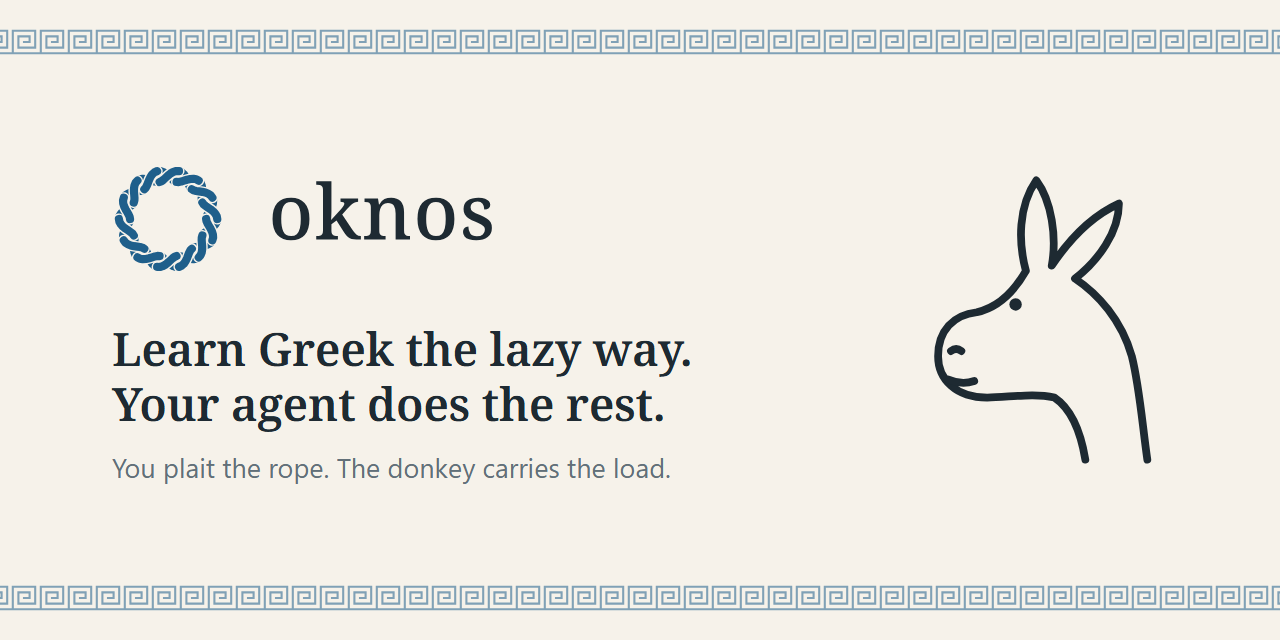
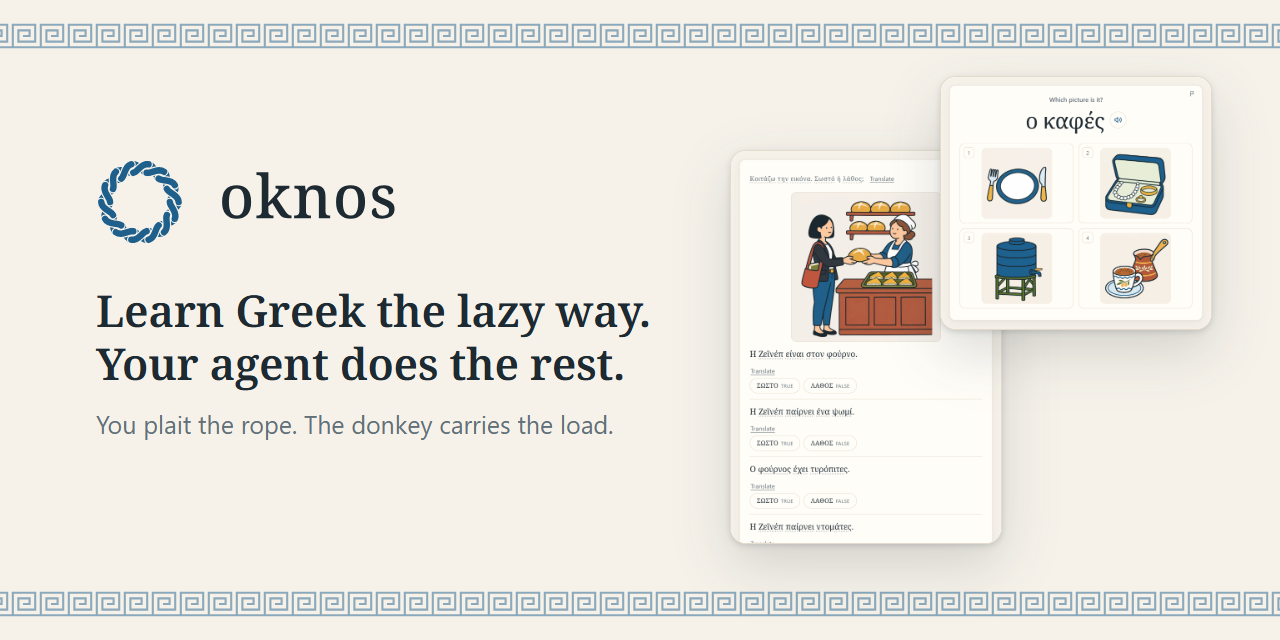
README: a new GitHub face
A hero from the app, a gallery of six screens in light and dark, a films
section with a short preview of film 1, the setup sentence near the top, and
current facts: pictures, the shipped voice, podcast lessons, the films, the
phone. The old screenshots go; the social preview matches the hero.

diff --git a/README.md b/README.md
@@ -8,34 +8,69 @@
 <h3 align="center">Learn Greek the lazy way. Your agent does the rest.</h3>
 <p align="center"><em>You plait the rope. The donkey carries the load.</em></p>
 
-**Oknos** is a Greek learning app for people who live in Greece and need a Greek certificate: the **A2 + history** exam for long-term residence or **Ελληνομάθεια B1**. It is for people who have tried to study before and stopped. It runs only on your own computer, and your coding agent (Claude Code, Codex or similar) installs it, runs it and coaches you.
+<p align="center">
+  <picture>
+    <source media="(prefers-color-scheme: dark)" srcset="docs/img/hero-dark.webp">
+    <img src="docs/img/hero-light.webp" alt="The Oknos home screen: good morning in Greek, the new words waiting with their pictures, today's session and the current lesson. Beside it a new word with its picture, and a painted scene from the book with true-or-false questions in Greek." width="100%">
+  </picture>
+</p>
 
-> **Türkçe:** Bu sayfayı Türkçe okumak için ajanına "README'yi Türkçeye çevir" demen yeterli. Uygulamanın kendisi Türkçe ve İngilizce.
+**Oknos** is a Greek learning app for people who live in Greece and need a Greek certificate: the **A2 + history** exam for long-term residence, or **Ελληνομάθεια B1**. It is made for people who have tried to study before and stopped. It runs only on your own computer, and your coding agent (Claude Code, Codex or similar) installs it, runs it and coaches you.
+
+> **Türkçe:** Uygulama Türkçe ve İngilizce. Bu sayfayı Türkçe okumak için ajanına "README'yi Türkçeye çevir" demen yeterli.
+
+## Get started
+
+Install an agent such as the Claude desktop app (Claude Code) or Codex, sign in, and say:
+
+> **"Download `https://github.com/<owner>/oknos` and set it up for me."**
+
+The agent installs what is needed, starts the app and puts an **Oknos** shortcut on your desktop. After that, double-click **Oknos** whenever you want to study; you don't need the agent open for that. (Already have the code? Open the folder in your agent and say "set this up for me". The agent's steps are in [`.agents/skills/setup/SKILL.md`](.agents/skills/setup/SKILL.md).)
+
+## A look inside
 
 <table>
   <tr>
-    <td width="50%"><img src="docs/img/home.png" alt="The home screen: one button for today's session, where you are in the course, and the coach's note"></td>
-    <td width="50%"><img src="docs/img/reader.png" alt="A chapter's dialogue; tapping a Greek word shows its meaning"></td>
+    <td width="50%" valign="top"><picture><source media="(prefers-color-scheme: dark)" srcset="docs/img/app-reader-dark.webp"><img src="docs/img/app-reader-light.webp" alt="A chapter of the book: a painted scene at the bakery, then the dialogue in Greek, each line with a play button"></picture></td>
+    <td width="50%" valign="top"><picture><source media="(prefers-color-scheme: dark)" srcset="docs/img/app-picture-dark.webp"><img src="docs/img/app-picture-light.webp" alt="A practice card: the Greek word ο καφές and four pictures to choose from"></picture></td>
   </tr>
   <tr>
-    <td align="center"><sub>One button a day: the session is sized to your time</sub></td>
-    <td align="center"><sub>Read first, then practise. Tap any word for its meaning</sub></td>
+    <td align="center"><b>Read first.</b> <sub>Each lesson starts with a short chapter: a story, its dialogue spoken aloud, grammar explained in Turkish or English. Tap any Greek word for its meaning.</sub></td>
+    <td align="center"><b>Then practise.</b> <sub>A session sized to your time, with a natural voice, and pictures for the words. Reviews come back just before you would forget.</sub></td>
   </tr>
   <tr>
-    <td><img src="docs/img/book.png" alt="The book: twelve chapters, each read before its lesson's practice"></td>
-    <td><img src="docs/img/practise.png" alt="Choosing your own practice: words, verbs, reading, listening, writing, speaking"></td>
+    <td valign="top"><picture><source media="(prefers-color-scheme: dark)" srcset="docs/img/app-scene-dark.webp"><img src="docs/img/app-scene-light.webp" alt="An exam-format task: look at the picture of the bakery and say whether each Greek sentence is true or false"></picture></td>
+    <td valign="top"><picture><source media="(prefers-color-scheme: dark)" srcset="docs/img/app-exam-dark.webp"><img src="docs/img/app-exam-light.webp" alt="The exam screen: would you pass B1 today? Reading and listening too close to call, writing and speaking not enough evidence yet"></picture></td>
   </tr>
   <tr>
-    <td align="center"><sub>A book of short chapters, from the alphabet to B1</sub></td>
-    <td align="center"><sub>Or choose: words, verbs, reading, listening, writing, speaking</sub></td>
+    <td align="center"><b>Exam formats from day one.</b> <sub>Look at the picture: true or false? Gap fills, matching, listening, writing and speaking, as in the real exams.</sub></td>
+    <td align="center"><b>Would you pass today?</b> <sub>An honest answer per skill, against each exam's real pass rule. With too little evidence, it says so.</sub></td>
+  </tr>
+  <tr>
+    <td valign="top"><picture><source media="(prefers-color-scheme: dark)" srcset="docs/img/app-book-dark.webp"><img src="docs/img/app-book-light.webp" alt="The book: twelve lessons from the first letter to B1, the current one with its progress and its words with pictures"></picture></td>
+    <td valign="top"><picture><source media="(prefers-color-scheme: dark)" srcset="docs/img/app-films-dark.webp"><img src="docs/img/app-films-light.webp" alt="The films of Oknos: two short painted films, Oknos and the donkey, and The dream"></picture></td>
+  </tr>
+  <tr>
+    <td align="center"><b>A book of twelve lessons.</b> <sub>From the alphabet to B1, following Zeynep from Izmir as she settles in Thessaloniki.</sub></td>
+    <td align="center"><b>Films about the name.</b> <sub>Two short painted films of the myth, with Greek captions to read along.</sub></td>
   </tr>
 </table>
+
+Screens from a demo learner with the open content only. Light or dark follows your system.
 
 ## Why "Oknos"?
 
 <img src="docs/brand/donkey-working-light.svg" alt="" width="64" align="right">
 
 In a painting at Delphi described by Pausanias, **Oknos** (Ὄκνος, "sloth" or "hesitation") sits plaiting a rope while a donkey eats it as fast as he plaits it. That is what happens to the Greek you learn and never review. In this app the donkey is on your side: your agent carries the load, so the rope gets longer. More in [docs/brand](docs/brand/README.md).
+
+### The films
+
+<p align="center">
+  <img src="docs/img/film-preview.webp" alt="A preview of the film Oknos and the donkey: painted shots of Oknos plaiting his rope at Delphi while a donkey eats it, with Greek captions and English lines under them" width="560">
+</p>
+
+Two short painted films (about 45 seconds each) tell the story: **Oknos and the donkey**, from Pausanias, and **The dream**, where Oknos dozes under an olive tree. The captions are simple modern Greek with an English or Turkish line under them, so they are reading practice too, and they can play with a Greek voice and a quiet background of wind, cicadas and goat bells. The first film welcomes you the first time you open the app; both are on the films page, reached from the home screen and the Book. How they are made: [docs/brand/animations](docs/brand/animations/README.md).
 
 ## How it works
 
@@ -46,7 +81,7 @@ In a painting at Delphi described by Pausanias, **Oknos** (Ὄκνος, "sloth" 
 
 - The app runs at `http://127.0.0.1:8642`, only on your computer. Your progress, mistakes and writing stay in a local folder. There are no accounts and nothing is uploaded.
 - You study in the app every day. The agent is not needed for that.
-- When you open your agent, it reads how you have been doing and acts as your coach. It makes new exercises around your weak spots and from your own life, marks your writing against the exam's criteria, and turns what you did in class, or a letter you received, into practice. If you agree, it can also prepare tomorrow's exercises every evening by itself.
+- When you open your agent, it reads how you have been doing and acts as your coach. It makes new exercises around your weak spots and from your own life, marks your writing against the exam's criteria, and turns what you did in class, or a letter you received, into practice. If you agree, it also prepares tomorrow's exercises every evening by itself.
 
 ## A day with Oknos
 
@@ -62,9 +97,12 @@ In a painting at Delphi described by Pausanias, **Oknos** (Ὄκνος, "sloth" 
   <img src="docs/img/what-you-learn-light.svg" alt="Twelve stages of an open course, from reading Greek through A1 and A2 to B1, aimed at the A2 + history and Ελληνομάθεια B1 exams. You can import your own coursebook privately.">
 </picture>
 
-- **An open course in 12 stages**, from the alphabet to B1. Each stage starts with a short chapter to read (a dialogue, grammar explained in Turkish or English, the words), and its practice opens after it.
-- **Exam practice in the real formats**, a timed **mock exam**, and an honest answer to **"would you pass today?"** for each part of each exam, against its real pass rule. Where there is too little evidence, it says so instead of guessing.
+- **An open course in 12 lessons**, from the alphabet to B1. Each starts with a chapter to read, and its practice opens after it. A new word is shown and explained before it is ever tested.
+- **Pictures and a voice.** Painted scenes in every chapter, and pictures for words: over a hundred in the open course and close to a thousand in all, drawn for Oknos. Every Greek sentence of the open course comes with a natural recorded voice, so it sounds right from the first day with no setup. With your own key for a voice service (Azure, Google or OpenAI) the agent can voice everything else too.
+- **Podcast lessons** to listen to on the go: your agent writes an episode for a chapter, in Greek with explanations in Turkish or English, and voices it with your voice service.
+- **Exam practice in the real formats**, a timed **mock exam**, and an honest answer to **"would you pass today?"** for each part of each exam.
 - **Your own material**, if you have it. Import a coursebook you own, a word list or handouts, and they become your course. They stay private, on your computer.
+- **On your phone too**, if you want: through your own private network (Tailscale), never the open internet. See [docs/HOSTING.md](docs/HOSTING.md).
 
 ## Say it to your agent
 
@@ -78,25 +116,16 @@ Open your agent in the Oknos folder and say:
 | **"mark my writing"** | Corrections and an exam score, shown in the app next to what you wrote. |
 | **"make me a plan"** | A week-by-week plan to a real exam date, which says plainly whether it is realistic. |
 | **"give me a mock exam"** | A full mock in the exam's format, timed, then marked. |
+| **"make the podcast for this lesson"** | An audio lesson of the chapter, on the app's Podcast page. |
 | **"any exam dates?"** | The official pages are checked and the next dates go on the home screen. |
 | **"import my book"** | Your own material becomes a private course. |
 
-## Get started
-
-1. Install an agent such as the Claude desktop app (Claude Code) or Codex, and sign in.
-2. In a new session, say: **"Download `https://github.com/<owner>/oknos` and set it up for me."**
-3. The agent installs what is needed, starts the app and puts an **Oknos** shortcut on your desktop.
-
-After that, double-click **Oknos** whenever you want to study. You don't need the agent open for that.
-
-If you already have the code, open the folder in your agent and say "set this up for me". The steps the agent follows are in [`.agents/skills/setup/SKILL.md`](.agents/skills/setup/SKILL.md).
-
 ## Honest by design
 
-- No streaks, no badges, no points. The home screen shows what is due and where you are.
+- No streaks, no badges, no points. The home screen shows the one next thing to do and where you are.
 - Readiness uses only your first try at each exam-format item, so repeating an exercise does not inflate it.
 - Everything the agent writes in Greek is checked before you see it, and anything that looks wrong can be flagged with one tap.
-- Local only: no accounts, no tracking, no cloud.
+- Local only: no accounts, no tracking, no cloud. A voice service, if you choose one, is sent the Greek text to read and nothing about you.
 
 Status: early. Used every day by its maintainer on Windows; the macOS and Linux installs are written but untested.
 
@@ -106,7 +135,8 @@ Everything is in [docs/DEVELOPING.md](docs/DEVELOPING.md): the commands, how the
 
 ## Licences and thanks
 
-- Code: MIT ([`LICENSE`](LICENSE)). Content in `content/open/`: CC BY-SA 4.0 ([`content/open/LICENSE.md`](content/open/LICENSE.md)).
+- Code: MIT ([`LICENSE`](LICENSE)). Content in `content/open/` (the course, the book, the pictures): CC BY-SA 4.0 ([`content/open/LICENSE.md`](content/open/LICENSE.md)). The films and their sound: CC BY-SA 4.0.
+- The open content's voice clips (`content/open-voice/`) were made with Google Cloud Text-to-Speech and are shared under CC BY-SA 4.0.
 - Verb forms and the word index use the English Wiktionary's Greek entries (CC BY-SA), as extracted by [kaikki.org](https://kaikki.org).
 - The wordmark is drawn from Noto Serif (SIL Open Font Licence).
 - The name comes from Pausanias, *Description of Greece* 10.29.

diff --git a/AGENTS.md b/AGENTS.md
@@ -162,7 +162,7 @@ On the roadmap (2026-11-20, `docs/prompts/`):
 - phase 11 (optional, `docs/prompts/11-podcasts.md`, added 2026-11-23; started the same day, the pilot is built: `docs/PODCASTS.md`): podcast lessons, written as text first and then voiced. One per book chapter by default, and personal daily (10–20 min) and weekly (20–30 min) episodes made by `daily-prep`. Explanations in Turkish or English, the learner's choice; other languages later are a new script, not a new system. A loop enriches them from other Greek-teaching podcasts, videos and accounts as sources of ideas only, never re-voicing their content.
 - the films in the app, and a new GitHub look (added 2026-11-23):
   - the films in the app: done 2026-11-23 (see **Films** above).
-  - redesign the repository's GitHub face from the app as it is then, so it catches the eye: the README's hero, screenshots and a link to the films with a short preview, and the social preview image (`docs/brand/social-preview.png`, `scripts/make_brand.py`, the demo clone in `docs/DEVELOPING.md`).
+  - the new GitHub face: done 2026-11-24. The README has a hero (the home screen with a picture card and a chapter's scene), a gallery of the app in light and dark, a films section with a short animated preview of film 1, and current facts; the social preview matches the hero. All of it is made by `scripts/readme_images.py` from a demo learner with the open content only (`docs/DEVELOPING.md`, "The README's screenshots").
 
 ## Git and GitHub
 
@@ -204,7 +204,7 @@ The canonical copy of each skill is in `.agents/skills/<name>/SKILL.md`. `.claud
 
 ## Commands
 
-The full list, with how the code is laid out, is in `docs/DEVELOPING.md`. The README is for learners and visitors; its pictures come from `scripts/make_brand.py` and from a demo clone (`docs/DEVELOPING.md`, "The README's screenshots").
+The full list, with how the code is laid out, is in `docs/DEVELOPING.md`. The README is for learners and visitors; its diagrams come from `scripts/make_brand.py`, and its screenshots, hero, film preview and the social preview from `scripts/readme_images.py`, run in a fresh clone (`docs/DEVELOPING.md`, "The README's screenshots").
 
 - `uv run oknos start`: runs the app in the background on `127.0.0.1:8642` (or the next free port) and opens the browser.
 - `uv run oknos stop`: stops it.
